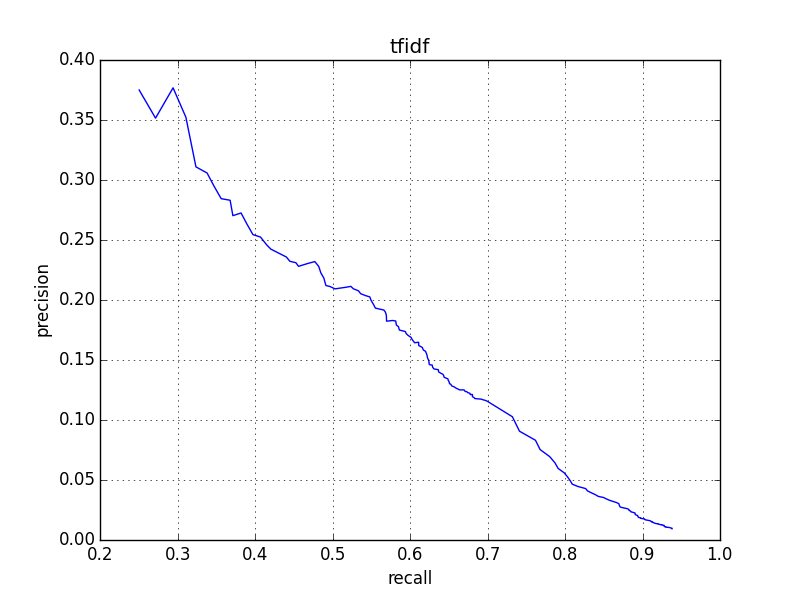
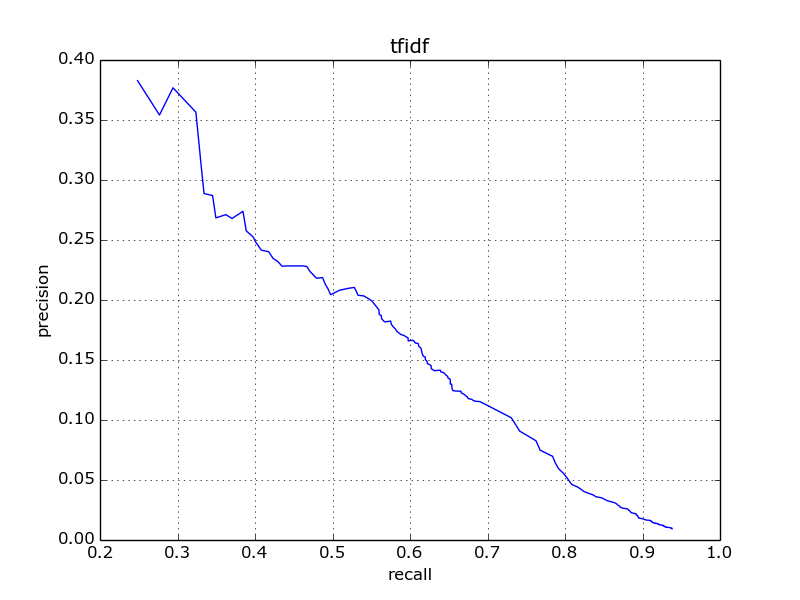
filtering before stemming.

diff --git a/index/core/utility.py b/index/core/utility.py
@@ -32,10 +32,10 @@ def get_word_list(content, stop_words):
     '''Gets the list of words in a string'''
     if not stop_words:
         stop_words = []
-    content = re.sub(r'[^\w\s]', ' ', content)
+    content = re.sub(r'[^\w\s]', ' ', content).lower()
     word_list = split_content(content)
-    word_list = [tokenize(x) for x in word_list]
     word_list = filter_words(word_list, stop_words)
+    word_list = [tokenize(x) for x in word_list]
     return word_list
 
 

diff --git a/index/core/index.py b/index/core/index.py
@@ -73,7 +73,7 @@ class Index:
         if not stop_word_file:
             self._stop_words = []
         with open(stop_word_file) as file_ptr:
-            self._stop_words = [tokenize(x) for x in file_ptr.read().splitlines()]
+            self._stop_words = [x for x in file_ptr.read().splitlines()]
 
     def _init_index(self):
         '''Initializes the index and inverted index.'''

diff --git a/index/core/document_index.py b/index/core/document_index.py
@@ -2,7 +2,6 @@
 Provides classes to index single documents.
 '''
 from .utility import get_word_list, count_tokens
-import re
 
 
 class StructuredDocument(object):
